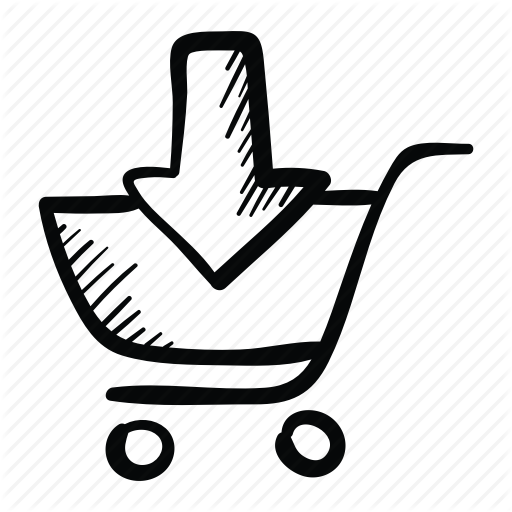
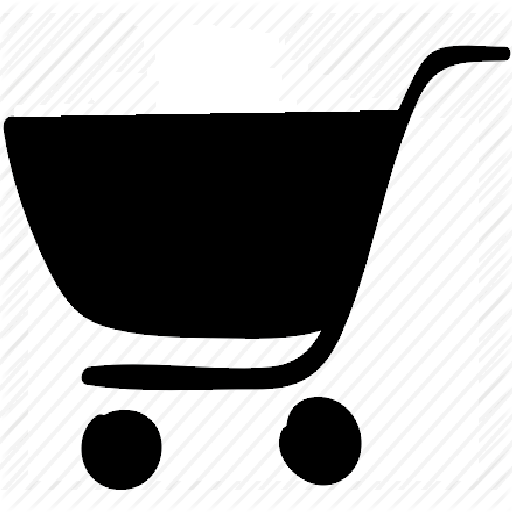
Boton de tienda refancy

diff --git a/DSIProyectoFinal/MainMenu.xaml b/DSIProyectoFinal/MainMenu.xaml
@@ -288,8 +288,7 @@
                 VerticalAlignment="Stretch"
                 HorizontalAlignment="Left"
                 Margin="4,4,4,4"
-                Background="#FF9C9C9C"
-                BorderBrush="Black" BorderThickness="3"
+                Background="Transparent"
                 Click="GoToStore">
             <Image Source="./Assets/shop.png" Margin="4,4,4,4"/>
         </Button>
